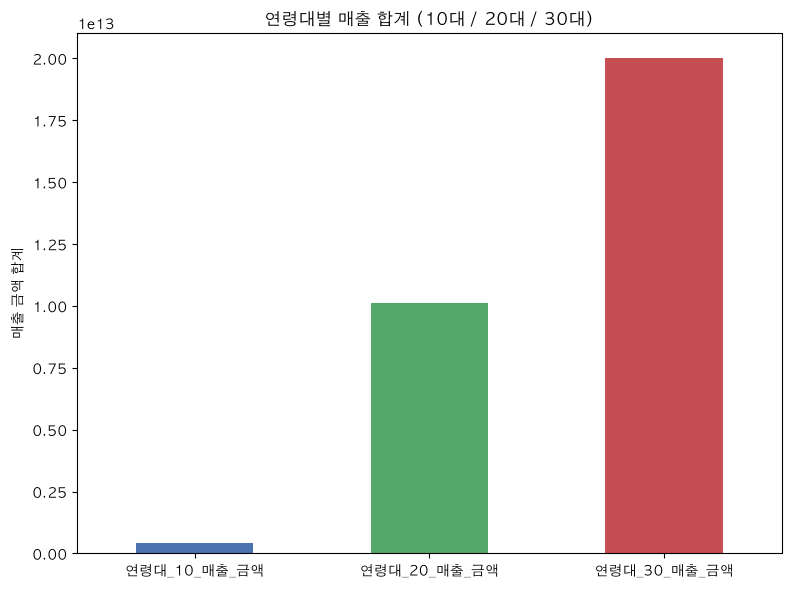
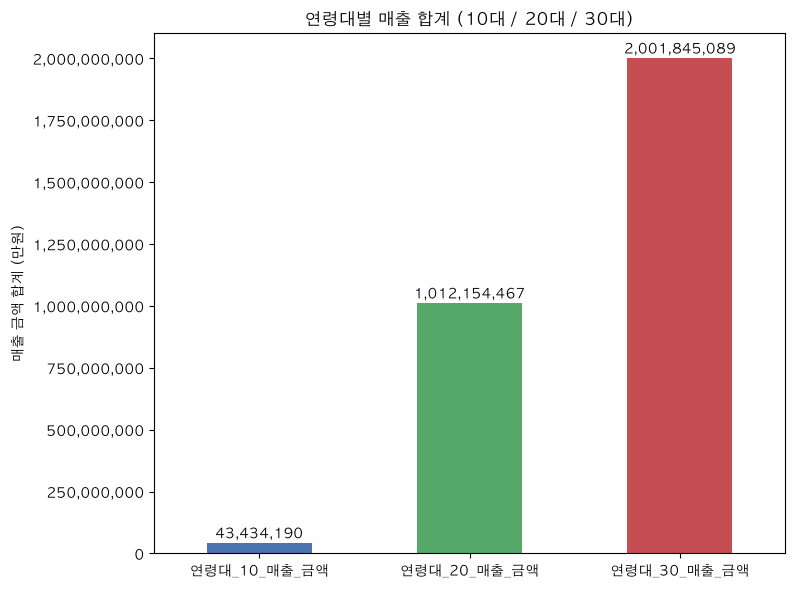
제출본

diff --git a/Test2_김주현.py b/Test2_김주현.py
@@ -86,8 +86,9 @@ def get_top10_by_industry(df):
             .head(10)
         )
         logger.info("업종별 매출 상위 10개 추출 완료")
+        top10_만원 = (top10 // 10000).apply(lambda x: f"{x:,}만원")
         print("\n[업종별 당월 매출 합계 TOP 10]")
-        print(top10.to_string())
+        print(top10_만원.to_string())
         return top10
     except Exception as e:
         logger.error("그룹/정렬 처리 중 오류 발생: %s", e)
@@ -101,13 +102,24 @@ def save_age_group_barchart(df, file_name="age_group_sales.png"):
     """연령대 10/20/30 매출 컬럼별 합계를 bar 그래프로 그려 파일로 저장합니다."""
     try:
         age_columns = ["연령대_10_매출_금액", "연령대_20_매출_금액", "연령대_30_매출_금액"]
-        age_sums = df[age_columns].sum()
+        # 만원 단위로 환산 (원 단위 그대로면 축 숫자가 너무 커서 지수 표기됨)
+        age_sums = df[age_columns].sum() / 10000
 
         plt.figure(figsize=(8, 6))
-        age_sums.plot(kind="bar", color=["#4C72B0", "#55A868", "#C44E52"])
+        ax = age_sums.plot(kind="bar", color=["#4C72B0", "#55A868", "#C44E52"])
         plt.title("연령대별 매출 합계 (10대 / 20대 / 30대)")
-        plt.ylabel("매출 금액 합계")
+        plt.ylabel("매출 금액 합계 (만원)")
         plt.xticks(rotation=0)
+
+        # y축 눈금을 천단위 콤마로 표시 (지수 표기 제거)
+        ax.get_yaxis().set_major_formatter(
+            plt.matplotlib.ticker.FuncFormatter(lambda x, _: f"{int(x):,}")
+        )
+
+        # 각 막대 위에 값 표시 (만원, 콤마)
+        for i, v in enumerate(age_sums):
+            ax.text(i, v, f"{int(v):,}", ha="center", va="bottom")
+
         plt.tight_layout()
         plt.savefig(file_name, dpi=100, bbox_inches="tight")
         plt.close()